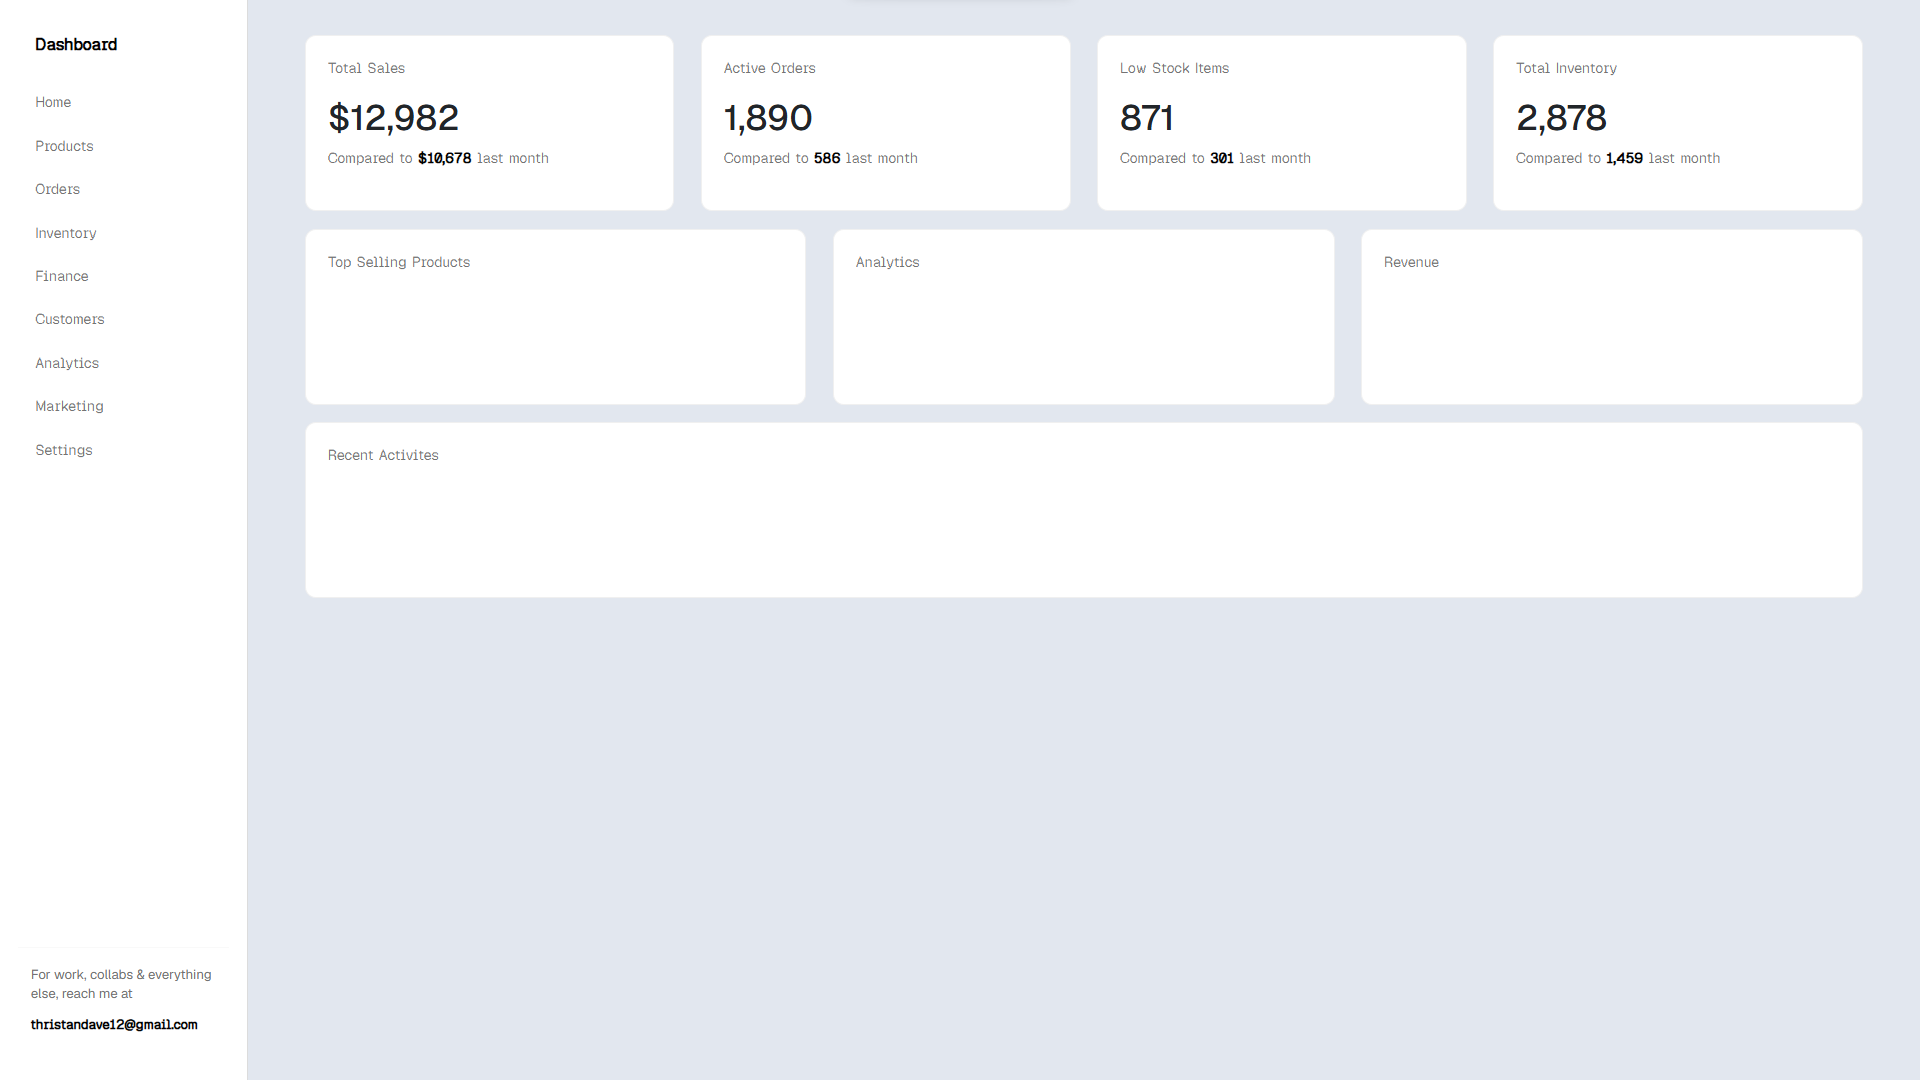
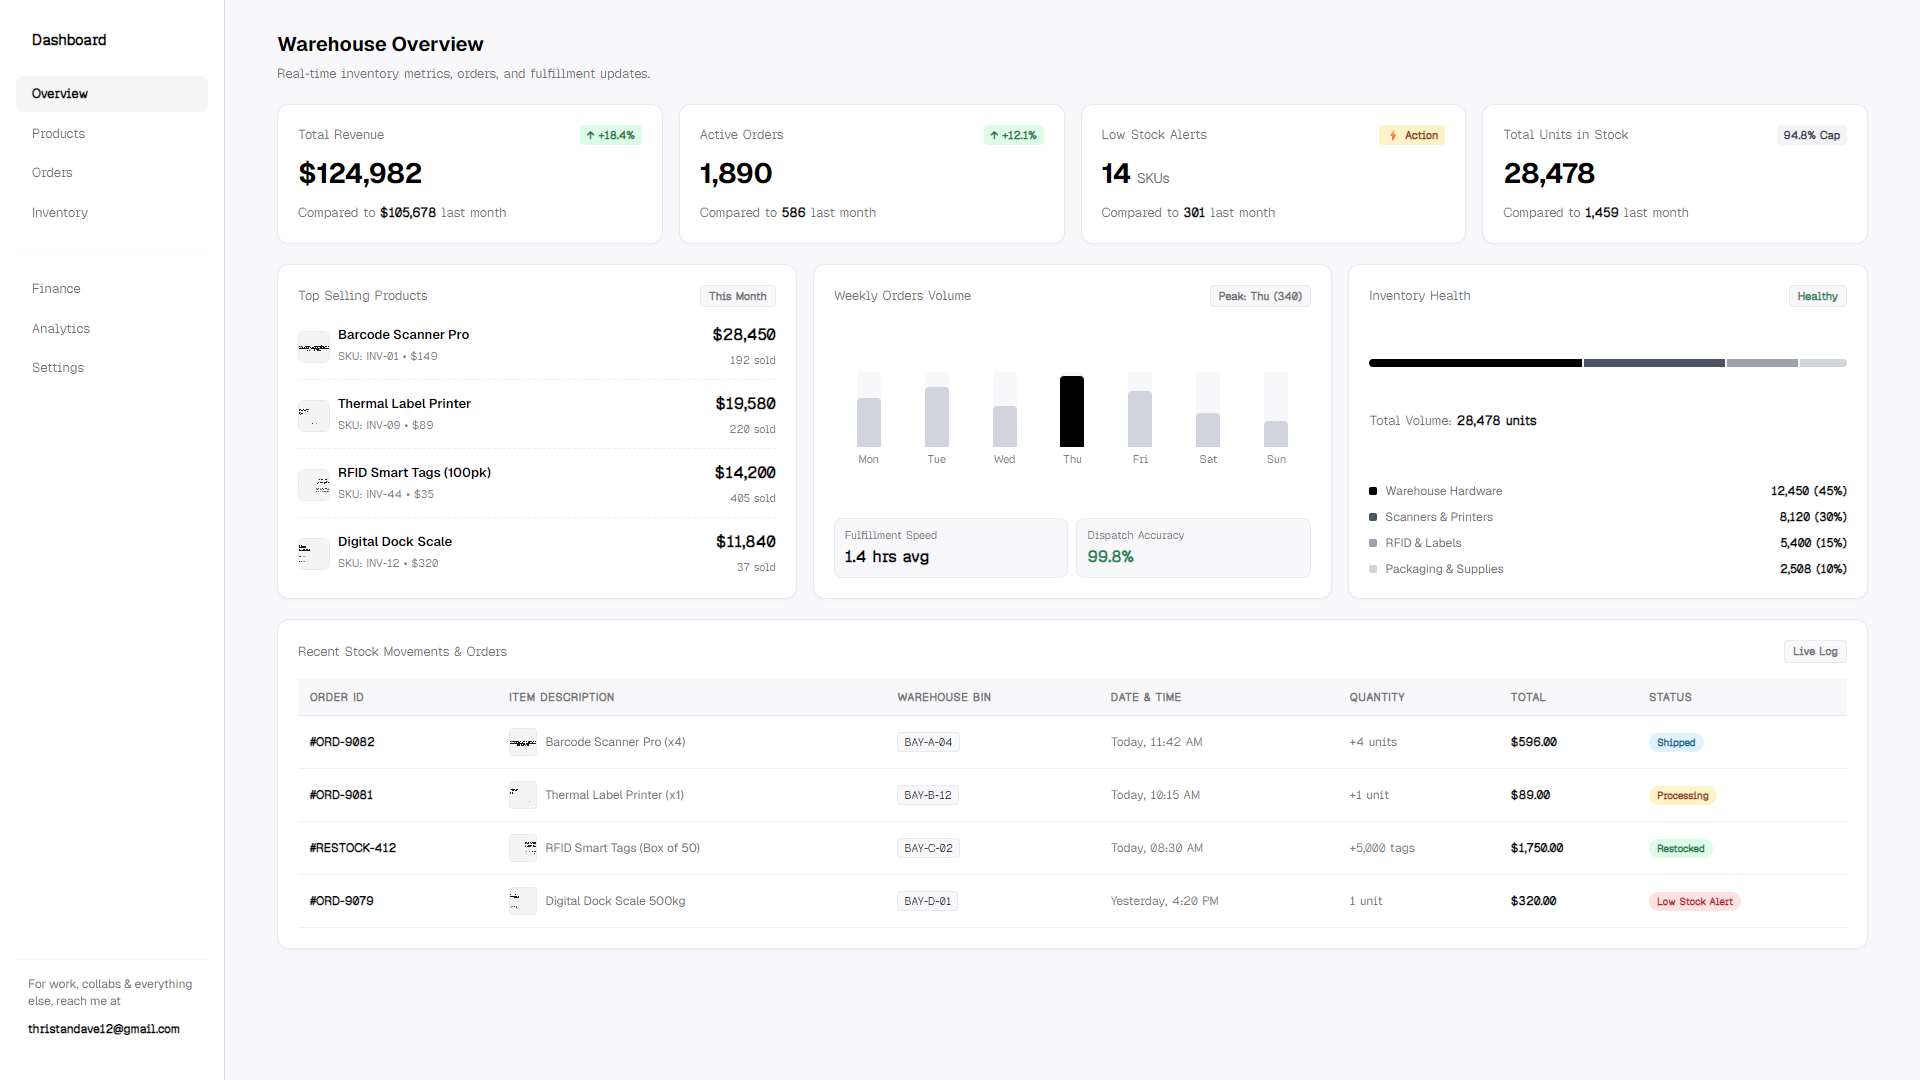
minor style edits

diff --git a/dashboard.html b/dashboard.html
@@ -21,23 +21,94 @@
         <nav class="desktop-nav">
             <div class="sidebar-wrapper">
                 <div class="sidebar-brand-container">
-                    <a class="navbar-brand" href="dashboard.html">Dashboard</a>
+                    <a class="navbar-brand d-flex align-items-center gap-2" href="dashboard.html">
+                        <img src="favicon/open-box.png" alt="Inventy" class="brand-icon">
+                        <span>Dashboard</span>
+                    </a>
                 </div>
                 <ul class="sidebar-nav">
-                    <li><a href="" class="active">Overview</a></li>
-                    <li><a href="">Products</a></li>
-                    <li><a href="">Orders</a></li>
-                    <li><a href="">Inventory</a></li>
+                    <li>
+                        <a href="" class="active">
+                            <svg class="nav-icon" viewBox="0 0 24 24" fill="none" stroke="currentColor">
+                                <rect x="3" y="3" width="7" height="7" rx="1.5"></rect>
+                                <rect x="14" y="3" width="7" height="7" rx="1.5"></rect>
+                                <rect x="14" y="14" width="7" height="7" rx="1.5"></rect>
+                                <rect x="3" y="14" width="7" height="7" rx="1.5"></rect>
+                            </svg>
+                            <span>Overview</span>
+                        </a>
+                    </li>
+                    <li>
+                        <a href="">
+                            <svg class="nav-icon" viewBox="0 0 24 24" fill="none" stroke="currentColor">
+                                <path d="M21 16V8a2 2 0 0 0-1-1.73l-7-4a2 2 0 0 0-2 0l-7 4A2 2 0 0 0 3 8v8a2 2 0 0 0 1 1.73l7 4a2 2 0 0 0 2 0l7-4A2 2 0 0 0 21 16z"></path>
+                                <polyline points="3.27 6.96 12 12.01 20.73 6.96"></polyline>
+                                <line x1="12" y1="22.08" x2="12" y2="12"></line>
+                            </svg>
+                            <span>Products</span>
+                        </a>
+                    </li>
+                    <li>
+                        <a href="">
+                            <svg class="nav-icon" viewBox="0 0 24 24" fill="none" stroke="currentColor">
+                                <circle cx="9" cy="21" r="1"></circle>
+                                <circle cx="20" cy="21" r="1"></circle>
+                                <path d="M1 1h4l2.68 13.39a2 2 0 0 0 2 1.61h9.72a2 2 0 0 0 2-1.61L23 6H6"></path>
+                            </svg>
+                            <span>Orders</span>
+                        </a>
+                    </li>
+                    <li>
+                        <a href="">
+                            <svg class="nav-icon" viewBox="0 0 24 24" fill="none" stroke="currentColor">
+                                <path d="M20 7h-7L10 4H4a2 2 0 0 0-2 2v12a2 2 0 0 0 2 2h16a2 2 0 0 0 2-2V9a2 2 0 0 0-2-2z"></path>
+                            </svg>
+                            <span>Inventory</span>
+                        </a>
+                    </li>
                     <hr>
-                    <li><a href="">Finance</a></li>
-                    <li><a href="">Analytics</a></li>
-                    <li><a href="">Settings</a></li>
+                    <li>
+                        <a href="">
+                            <svg class="nav-icon" viewBox="0 0 24 24" fill="none" stroke="currentColor">
+                                <line x1="12" y1="1" x2="12" y2="23"></line>
+                                <path d="M17 5H9.5a3.5 3.5 0 0 0 0 7h5a3.5 3.5 0 0 1 0 7H6"></path>
+                            </svg>
+                            <span>Finance</span>
+                        </a>
+                    </li>
+                    <li>
+                        <a href="">
+                            <svg class="nav-icon" viewBox="0 0 24 24" fill="none" stroke="currentColor">
+                                <line x1="18" y1="20" x2="18" y2="10"></line>
+                                <line x1="12" y1="20" x2="12" y2="4"></line>
+                                <line x1="6" y1="20" x2="6" y2="14"></line>
+                            </svg>
+                            <span>Analytics</span>
+                        </a>
+                    </li>
+                    <li>
+                        <a href="">
+                            <svg class="nav-icon" viewBox="0 0 24 24" fill="none" stroke="currentColor">
+                                <circle cx="12" cy="12" r="3"></circle>
+                                <path d="M19.4 15a1.65 1.65 0 0 0 .33 1.82l.06.06a2 2 0 0 1 0 2.83 2 2 0 0 1-2.83 0l-.06-.06a1.65 1.65 0 0 0-1.82-.33 1.65 1.65 0 0 0-1 1.51V21a2 2 0 0 1-2 2 2 2 0 0 1-2-2v-.09A1.65 1.65 0 0 0 9 19.4a1.65 1.65 0 0 0-1.82.33l-.06.06a2 2 0 0 1-2.83 0 2 2 0 0 1 0-2.83l.06-.06a1.65 1.65 0 0 0 .33-1.82 1.65 1.65 0 0 0-1.51-1H3a2 2 0 0 1-2-2 2 2 0 0 1 2-2h.09A1.65 1.65 0 0 0 4.6 9a1.65 1.65 0 0 0-.33-1.82l-.06-.06a2 2 0 0 1 0-2.83 2 2 0 0 1 2.83 0l.06.06a1.65 1.65 0 0 0 1.82.33H9a1.65 1.65 0 0 0 1-1.51V3a2 2 0 0 1 2-2 2 2 0 0 1 2 2v.09a1.65 1.65 0 0 0 1 1.51 1.65 1.65 0 0 0 1.82-.33l.06-.06a2 2 0 0 1 2.83 0 2 2 0 0 1 0 2.83l-.06.06a1.65 1.65 0 0 0-.33 1.82V9a1.65 1.65 0 0 0 1.51 1H21a2 2 0 0 1 2 2 2 2 0 0 1-2 2h-.09a1.65 1.65 0 0 0-1.51 1z"></path>
+                            </svg>
+                            <span>Settings</span>
+                        </a>
+                    </li>
                 </ul>
                 <div class="sidebar-footer">
                     <hr>
                     <div class="contact">
                         <p class="contact-desc">For work, collabs & everything else, reach me at</p>
-                        <p class="email"><a href="mailto:thristandave12@gmail.com">thristandave12@gmail.com</a></p>
+                        <p class="email">
+                            <a href="mailto:thristandave12@gmail.com" class="d-flex align-items-center gap-1">
+                                <svg viewBox="0 0 24 24" width="13" height="13" fill="none" stroke="currentColor" stroke-width="2">
+                                    <path d="M4 4h16c1.1 0 2 .9 2 2v12c0 1.1-.9 2-2 2H4c-1.1 0-2-.9-2-2V6c0-1.1.9-2 2-2z"></path>
+                                    <polyline points="22,6 12,13 2,6"></polyline>
+                                </svg>
+                                <span>thristandave12@gmail.com</span>
+                            </a>
+                        </p>
                     </div>
                 </div>
             </div>
@@ -45,7 +116,10 @@
 
         <nav class="mobile-nav navbar fixed-top">
             <div class="container-fluid">
-                <a class="navbar-brand" href="dashboard.html">Dashboard</a>
+                <a class="navbar-brand d-flex align-items-center gap-2" href="dashboard.html">
+                    <img src="favicon/open-box.png" alt="Inventy" class="brand-icon">
+                    <span>Dashboard</span>
+                </a>
                 <button class="navbar-toggler" type="button" data-bs-toggle="offcanvas"
                     data-bs-target="#offcanvasNavbar" aria-controls="offcanvasNavbar" aria-label="Toggle navigation">
                     <span class="navbar-toggler-icon"></span>
@@ -53,26 +127,97 @@
                 <div class="offcanvas offcanvas-end" tabindex="-1" id="offcanvasNavbar"
                     aria-labelledby="offcanvasNavbarLabel">
                     <div class="offcanvas-header">
-                        <a class="navbar-brand" id="offcanvasNavbarLabel" href="dashboard.html">Dashboard</a>
+                        <a class="navbar-brand d-flex align-items-center gap-2" id="offcanvasNavbarLabel" href="dashboard.html">
+                            <img src="favicon/open-box.png" alt="Inventy" class="brand-icon">
+                            <span>Dashboard</span>
+                        </a>
                         <button type="button" class="btn-close" data-bs-dismiss="offcanvas"
                             aria-label="Close"></button>
                     </div>
                     <div class="offcanvas-body">
                         <ul class="sidebar-nav">
-                            <li><a href="" class="active">Overview</a></li>
-                            <li><a href="">Products</a></li>
-                            <li><a href="">Orders</a></li>
-                            <li><a href="">Inventory</a></li>
+                            <li>
+                                <a href="" class="active">
+                                    <svg class="nav-icon" viewBox="0 0 24 24" fill="none" stroke="currentColor">
+                                        <rect x="3" y="3" width="7" height="7" rx="1.5"></rect>
+                                        <rect x="14" y="3" width="7" height="7" rx="1.5"></rect>
+                                        <rect x="14" y="14" width="7" height="7" rx="1.5"></rect>
+                                        <rect x="3" y="14" width="7" height="7" rx="1.5"></rect>
+                                    </svg>
+                                    <span>Overview</span>
+                                </a>
+                            </li>
+                            <li>
+                                <a href="">
+                                    <svg class="nav-icon" viewBox="0 0 24 24" fill="none" stroke="currentColor">
+                                        <path d="M21 16V8a2 2 0 0 0-1-1.73l-7-4a2 2 0 0 0-2 0l-7 4A2 2 0 0 0 3 8v8a2 2 0 0 0 1 1.73l7 4a2 2 0 0 0 2 0l7-4A2 2 0 0 0 21 16z"></path>
+                                        <polyline points="3.27 6.96 12 12.01 20.73 6.96"></polyline>
+                                        <line x1="12" y1="22.08" x2="12" y2="12"></line>
+                                    </svg>
+                                    <span>Products</span>
+                                </a>
+                            </li>
+                            <li>
+                                <a href="">
+                                    <svg class="nav-icon" viewBox="0 0 24 24" fill="none" stroke="currentColor">
+                                        <circle cx="9" cy="21" r="1"></circle>
+                                        <circle cx="20" cy="21" r="1"></circle>
+                                        <path d="M1 1h4l2.68 13.39a2 2 0 0 0 2 1.61h9.72a2 2 0 0 0 2-1.61L23 6H6"></path>
+                                    </svg>
+                                    <span>Orders</span>
+                                </a>
+                            </li>
+                            <li>
+                                <a href="">
+                                    <svg class="nav-icon" viewBox="0 0 24 24" fill="none" stroke="currentColor">
+                                        <path d="M20 7h-7L10 4H4a2 2 0 0 0-2 2v12a2 2 0 0 0 2 2h16a2 2 0 0 0 2-2V9a2 2 0 0 0-2-2z"></path>
+                                    </svg>
+                                    <span>Inventory</span>
+                                </a>
+                            </li>
                             <hr>
-                            <li><a href="">Finance</a></li>
-                            <li><a href="">Analytics</a></li>
-                            <li><a href="">Settings</a></li>
+                            <li>
+                                <a href="">
+                                    <svg class="nav-icon" viewBox="0 0 24 24" fill="none" stroke="currentColor">
+                                        <line x1="12" y1="1" x2="12" y2="23"></line>
+                                        <path d="M17 5H9.5a3.5 3.5 0 0 0 0 7h5a3.5 3.5 0 0 1 0 7H6"></path>
+                                    </svg>
+                                    <span>Finance</span>
+                                </a>
+                            </li>
+                            <li>
+                                <a href="">
+                                    <svg class="nav-icon" viewBox="0 0 24 24" fill="none" stroke="currentColor">
+                                        <line x1="18" y1="20" x2="18" y2="10"></line>
+                                        <line x1="12" y1="20" x2="12" y2="4"></line>
+                                        <line x1="6" y1="20" x2="6" y2="14"></line>
+                                    </svg>
+                                    <span>Analytics</span>
+                                </a>
+                            </li>
+                            <li>
+                                <a href="">
+                                    <svg class="nav-icon" viewBox="0 0 24 24" fill="none" stroke="currentColor">
+                                        <circle cx="12" cy="12" r="3"></circle>
+                                        <path d="M19.4 15a1.65 1.65 0 0 0 .33 1.82l.06.06a2 2 0 0 1 0 2.83 2 2 0 0 1-2.83 0l-.06-.06a1.65 1.65 0 0 0-1.82-.33 1.65 1.65 0 0 0-1 1.51V21a2 2 0 0 1-2 2 2 2 0 0 1-2-2v-.09A1.65 1.65 0 0 0 9 19.4a1.65 1.65 0 0 0-1.82.33l-.06.06a2 2 0 0 1-2.83 0 2 2 0 0 1 0-2.83l.06-.06a1.65 1.65 0 0 0 .33-1.82 1.65 1.65 0 0 0-1.51-1H3a2 2 0 0 1-2-2 2 2 0 0 1 2-2h.09A1.65 1.65 0 0 0 4.6 9a1.65 1.65 0 0 0-.33-1.82l-.06-.06a2 2 0 0 1 0-2.83 2 2 0 0 1 2.83 0l.06.06a1.65 1.65 0 0 0 1.82.33H9a1.65 1.65 0 0 0 1-1.51V3a2 2 0 0 1 2-2 2 2 0 0 1 2 2v.09a1.65 1.65 0 0 0 1 1.51 1.65 1.65 0 0 0 1.82-.33l.06-.06a2 2 0 0 1 2.83 0 2 2 0 0 1 0 2.83l-.06.06a1.65 1.65 0 0 0-.33 1.82V9a1.65 1.65 0 0 0 1.51 1H21a2 2 0 0 1 2 2 2 2 0 0 1-2 2h-.09a1.65 1.65 0 0 0-1.51 1z"></path>
+                                    </svg>
+                                    <span>Settings</span>
+                                </a>
+                            </li>
                         </ul>
                         <div class="sidebar-footer mt-auto">
                             <hr>
                             <div class="contact">
                                 <p class="contact-desc">For work, collabs & everything else, reach me at</p>
-                                <p class="email"><a href="mailto:thristandave12@gmail.com">thristandave12@gmail.com</a></p>
+                                <p class="email">
+                                    <a href="mailto:thristandave12@gmail.com" class="d-flex align-items-center gap-1">
+                                        <svg viewBox="0 0 24 24" width="13" height="13" fill="none" stroke="currentColor" stroke-width="2">
+                                            <path d="M4 4h16c1.1 0 2 .9 2 2v12c0 1.1-.9 2-2 2H4c-1.1 0-2-.9-2-2V6c0-1.1.9-2 2-2z"></path>
+                                            <polyline points="22,6 12,13 2,6"></polyline>
+                                        </svg>
+                                        <span>thristandave12@gmail.com</span>
+                                    </a>
+                                </p>
                             </div>
                         </div>
                     </div>
@@ -82,7 +227,7 @@
     </header>
 
     <main>
-        <div class="container-fluid">
+        <div class="container-fluid p-0">
             <!-- Header Section -->
             <div class="row">
                 <div class="col-12">

diff --git a/css/dashboard.css b/css/dashboard.css
@@ -20,7 +20,7 @@ body {
     position: fixed;
     top: 0;
     left: 0;
-    width: 225px;
+    width: 235px;
     height: 100vh;
     background-color: #FFFFFF;
     border-right: 1px solid rgb(220, 220, 220);
@@ -51,6 +51,12 @@ body {
     color: #000000;
 }
 
+.brand-icon {
+    width: 20px;
+    height: 20px;
+    object-fit: contain;
+}
+
 .sidebar-nav {
     list-style-type: none;
     margin: 0;
@@ -61,9 +67,11 @@ body {
 }
 
 .sidebar-nav li a {
-    display: block;
+    display: flex;
+    align-items: center;
+    gap: 10px;
     color: #737373;
-    padding: 8px 16px;
+    padding: 8px 14px;
     text-decoration: none;
     font-family: "Geist Pixel", sans-serif;
     font-size: 13px;
@@ -72,11 +80,25 @@ body {
     transition: color 0.15s ease, background-color 0.15s ease;
 }
 
+.nav-icon {
+    width: 16px;
+    height: 16px;
+    stroke-width: 2;
+    color: #737373;
+    flex-shrink: 0;
+    transition: color 0.15s ease;
+}
+
 .sidebar-nav li a:hover,
 .sidebar-nav li a.active {
     color: #000000;
     font-weight: 600;
     background-color: rgba(0, 0, 0, 0.04);
+}
+
+.sidebar-nav li a:hover .nav-icon,
+.sidebar-nav li a.active .nav-icon {
+    color: #000000;
 }
 
 .sidebar-footer {
@@ -567,8 +589,8 @@ main p {
     }
 
     main {
-        margin-left: 225px;
-        padding: 32px 40px;
+        margin-left: 235px;
+        padding: 28px 32px;
     }
 }
 
